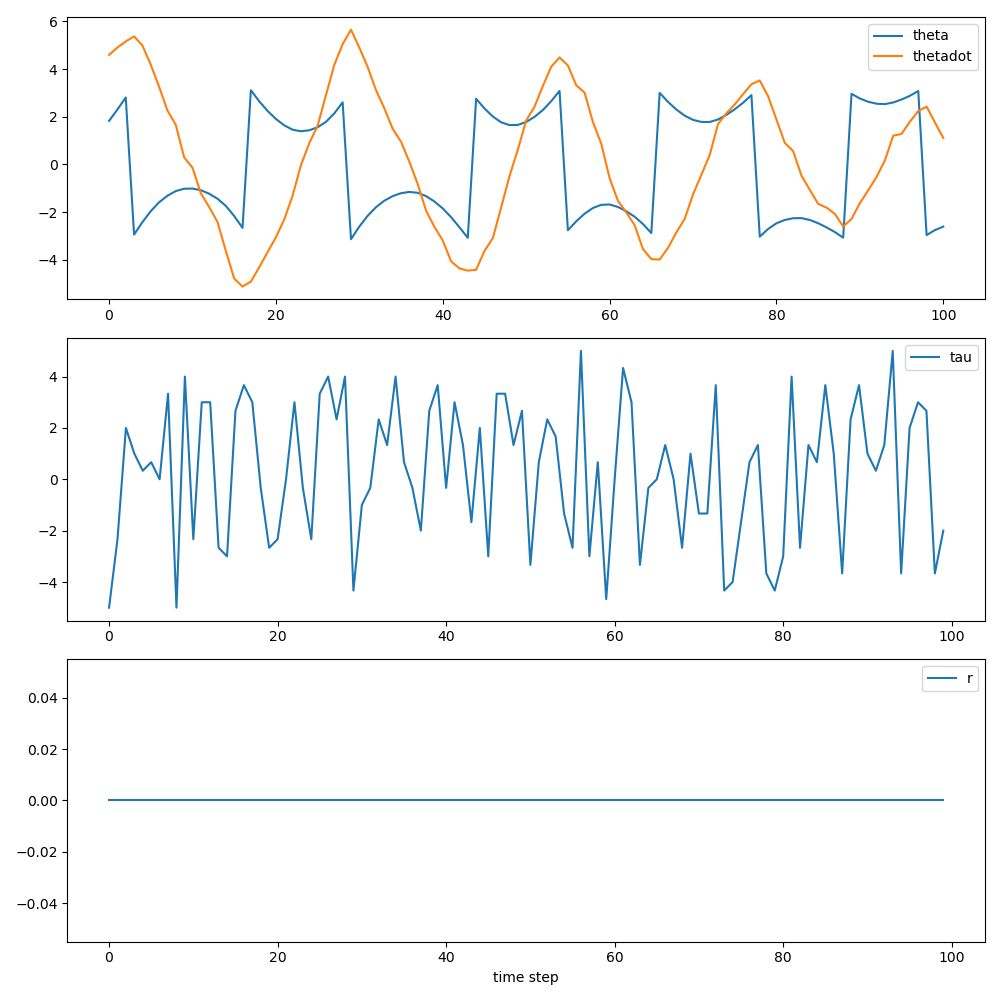
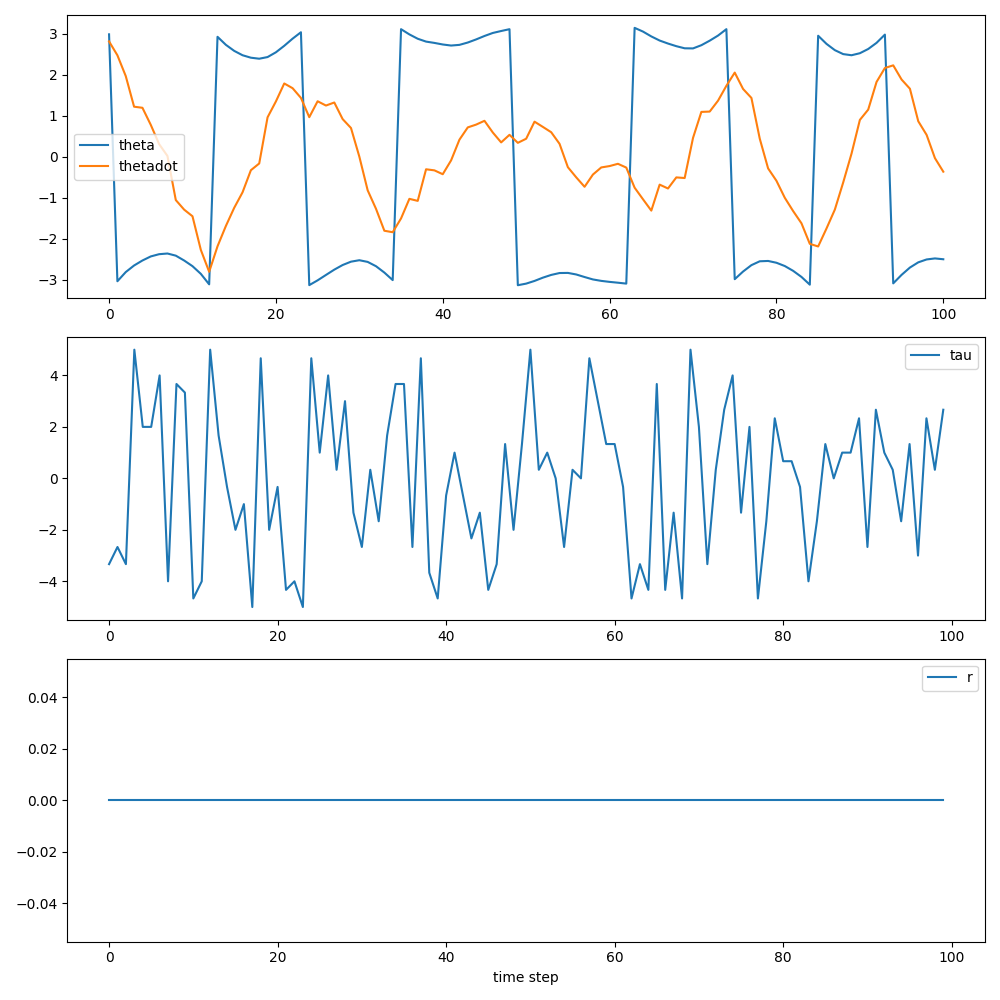
first attempts

diff --git a/DQN.py b/DQN.py
@@ -1,0 +1,171 @@
+import torch
+import torch.nn as nn
+import torch.optim as optim
+from collections import deque, namedtuple
+import random
+import discreteaction_pendulum
+import numpy as np
+import matplotlib.pyplot as plt
+
+
+class DQN(nn.Module):
+    """
+
+    """
+
+    def __init__(self, in_dim, hid_dim, out_dim):
+        super(DQN, self).__init__()
+
+        self.device = torch.device('cuda' if torch.cuda.is_available() else 'cpu')
+
+        self.q_network = nn.Sequential(
+            nn.Linear(in_features=in_dim, out_features=hid_dim),
+            nn.Tanh(),
+            nn.Linear(in_features=hid_dim, out_features=hid_dim),
+            nn.Tanh(),
+            nn.Linear(in_features=hid_dim, out_features=out_dim)
+        )
+
+        self.target_q_network = nn.Sequential(
+            nn.Linear(in_features=in_dim, out_features=hid_dim),
+            nn.Tanh(),
+            nn.Linear(in_features=hid_dim, out_features=hid_dim),
+            nn.Tanh(),
+            nn.Linear(in_features=hid_dim, out_features=out_dim)
+        )
+        self.target_q_network.load_state_dict(self.q_network.state_dict())
+        self.target_q_network.eval()
+
+        self.q_network.to(self.device)
+        self.target_q_network.to(self.device)
+        self.replay_memory = ReplayMemory(capacity=10000)
+        self.optimizer = optim.Adam(self.q_network.parameters(), lr=1e-4, amsgrad=True)
+        self.epsilon = 0.9
+        self.batch_size = 128
+        self.gamma = 0.95
+        self.criterion = nn.SmoothL1Loss()
+        self.reward_list = []
+        self.tau = 0.005
+
+    def forward(self, input) -> torch.Tensor:
+        """
+        Forward function for q network
+        :param input: state - a tensor
+        :return: Q values - a tensor
+        """
+        if isinstance(input, tuple):
+            pass
+        elif not isinstance(input, torch.Tensor):
+            input = torch.Tensor(input)
+
+        return self.q_network(input)
+
+    def target_forward(self, input) -> torch.Tensor:
+        """
+        Forward function for target q network
+        :param input: state - a tensor
+        :return: target Q values - a tensor
+        """
+        if not isinstance(input, torch.Tensor):
+            input = torch.Tensor(input)
+
+        return self.target_q_network(input)
+
+    def learn(self, env: discreteaction_pendulum.Pendulum(), episode_length: int, num_episodes: int) -> None:
+        """
+        Primary function to train Q and target Q networks
+        :param env: pendulum environment
+        :param episode_length: int
+        :param num_episodes: int -> to experiment with
+        :return: Explicitly returns nothing but updates Q and target Q networks and records data for plotting purposes
+        """
+        for episode in range(num_episodes):
+            state = env.reset()
+            reward_list = []
+            for step in range(episode_length):
+                Qs = self.forward(state)
+                action = self.epsilon_greedy(env=env, Qs=Qs)
+                (next_state, reward, done) = env.step(action)
+                reward_list.append(reward)
+                state, action, next_state, reward, done = torch.Tensor(state), torch.Tensor([action]), torch.Tensor(next_state), torch.Tensor([reward]), torch.Tensor([done])
+                self.replay_memory.push(state, action, next_state, reward)
+                state = next_state
+                self.optimize_model()
+            if episode % 10 == 0:
+                print(f'episode = {episode} / {num_episodes}')
+                self.target_q_network.load_state_dict(self.q_network.state_dict())
+            self.epsilon -= 0.00001
+            self.reward_list.append(np.sum(reward_list).mean())
+            reward_list.clear()
+
+    def epsilon_greedy(self, env, Qs: torch.Tensor) -> int:
+        """
+        Epsilon greedy method for selecting an action
+        :param env: pendulum environment
+        :param Qs: Q values for discretized action space evaluated at recorded state
+        :return: action - an integer
+        """
+        epsilon = np.random.uniform()
+        if epsilon > self.epsilon:
+            action = int(torch.argmax(Qs))
+        else:
+            action = int(random.randrange(env.num_actions))
+
+        return action
+
+    def optimize_model(self) -> None:
+        """
+        Trains Q network
+        :return: None
+        """
+        if len(self.replay_memory) < self.batch_size:
+            return
+        transitions = self.replay_memory.sample(self.batch_size)
+        batch = self.replay_memory.Transition(*zip(*transitions))
+
+        state_batch = torch.stack(batch.state)
+        action_batch = torch.stack(batch.action).type(torch.int64)
+        reward_batch = torch.stack(batch.reward)
+
+        state_action_values = self.forward(state_batch).gather(1, action_batch)
+        expected_state_action_values = reward_batch + self.gamma * torch.max(self.target_forward(state_batch))
+        loss = self.criterion(state_action_values, expected_state_action_values)
+        self.optimizer.zero_grad()
+        loss.backward()
+        self.optimizer.step()
+
+    def plot(self) -> None:
+        """
+        Plots return over time
+        :return: None
+        """
+        plt.plot(self.reward_list)
+        plt.savefig('figures/giwoegfwh.png')
+        plt.show()
+
+    def generate_gif(self, env: discreteaction_pendulum.Pendulum()) -> None:
+        """
+        Generates a gif of an example trajectory with a trained agent
+        :param env: pendulum environment
+        :return: None
+        """
+        policy = self.q_network
+
+        # Simulate an episode and save the result as an animated gif
+        env.video(policy, filename='figures/bfwbgjgrwerw.gif')
+
+
+class ReplayMemory(object):
+
+    def __init__(self, capacity: int):
+        self.Transition = namedtuple('Transition', ('state', 'action', 'next_state', 'reward'))
+        self.memory = deque([], maxlen=capacity)
+
+    def push(self, *args) -> None:
+        self.memory.append(self.Transition(*args))
+
+    def sample(self, batch_size) -> list:
+        return random.sample(self.memory, batch_size)
+
+    def __len__(self) -> int:
+        return len(self.memory)

diff --git a/test_discreteaction_pendulum.py b/test_discreteaction_pendulum.py
@@ -2,6 +2,7 @@ import random
 import numpy as np
 import matplotlib.pyplot as plt
 import discreteaction_pendulum
+import torch
 
 
 def main():
@@ -41,6 +42,7 @@ def main():
 
     # Initialize simulation
     s = env.reset()
+    print(f's = {torch.Tensor(s)}')
 
     # Create dict to store data from simulation
     data = {
@@ -54,6 +56,7 @@ def main():
     done = False
     while not done:
         a = random.randrange(env.num_actions)
+        print(f'a = {int(a)}')
         (s, r, done) = env.step(a)
         data['t'].append(data['t'][-1] + 1)
         data['s'].append(s)

diff --git a/discreteaction_pendulum.py b/discreteaction_pendulum.py
@@ -2,6 +2,7 @@ import numpy as np
 import scipy.integrate
 import matplotlib.pyplot as plt
 import matplotlib.animation as animation
+import torch
 
 
 class Pendulum():
@@ -115,7 +116,9 @@ class Pendulum():
         s_traj = [s]
         done = False
         while not done:
-            (s, r, done) = self.step(policy(s))
+            s = torch.Tensor(s)
+            a = int(torch.argmax(policy(s)))
+            (s, r, done) = self.step(a)
             s_traj.append(s)
 
         fig = plt.figure(figsize=(5, 4))

diff --git a/train_discreteaction_pendulum.py b/train_discreteaction_pendulum.py
@@ -1,0 +1,14 @@
+from DQN import DQN
+import discreteaction_pendulum
+
+
+def main():
+    env = discreteaction_pendulum.Pendulum()
+    model = DQN(in_dim=env.num_states, hid_dim=64, out_dim=env.num_actions)
+    model.learn(env=env, episode_length=env.max_num_steps, num_episodes=500)
+    model.plot()
+    model.generate_gif(env=env)
+
+
+if __name__ == '__main__':
+    main()
